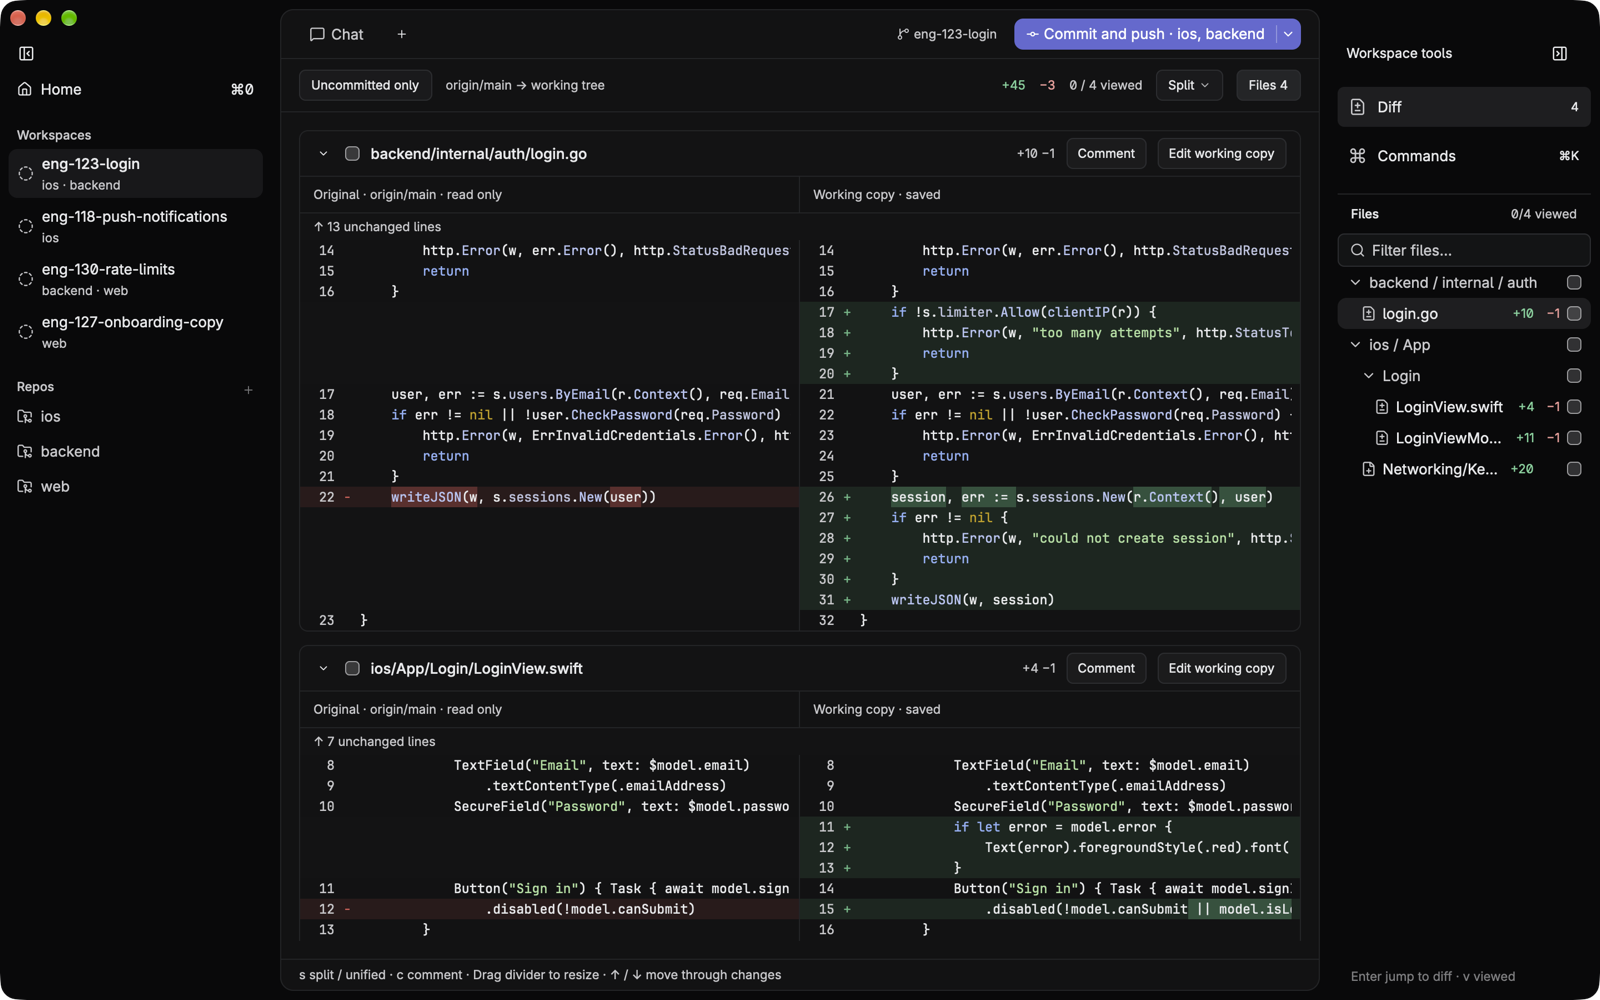
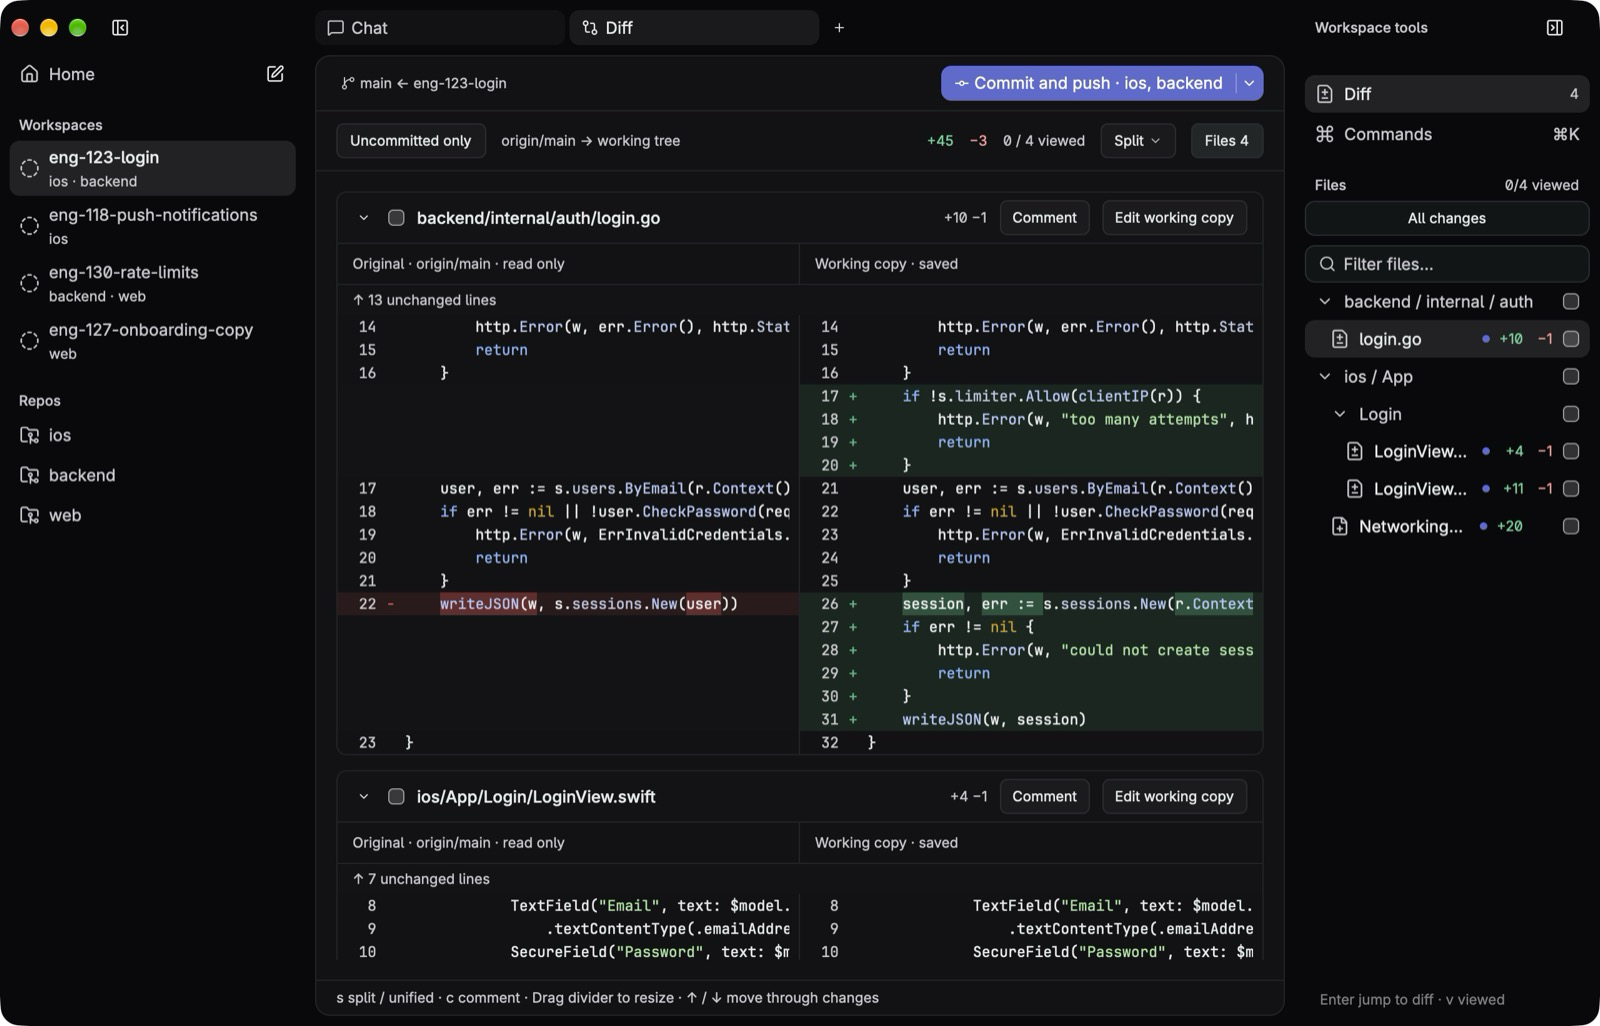
Refresh README screenshots for file tabs and stacked PRs

diff --git a/README.md b/README.md
@@ -19,6 +19,11 @@ The diff shows the original and the working copy side by side, across every repo
 
 <img src="docs/images/diff-images.png" width="800" alt="The split diff with a changed PNG shown before and after">
 
+## Full-width file tabs
+Open a file from Workspace tools or `cmd-p` to edit it across the central area. Chat and Diff stay one tab away, and Command-click keeps additional files open. A small dot in the file tree marks uncommitted changes; right-click a file and choose **Discard uncommitted changes…** to restore its last commit after confirmation. New files are deleted when discarded.
+
+<img src="docs/images/file-editor.png" width="800" alt="A full-width file editor beside Workspace tools, with Chat and Diff tabs and dots marking uncommitted files">
+
 ## Multi-repo workspaces
 One workspace = one feature = one git worktree per repo on a shared branch, e.g. `~/shark/workspaces/eng-123-login/{ios,backend}`. A single agent works across all of them. The diff is combined, PRs are cross-linked and merge in an order you set, and one git button shows the next step for every repo: commit, push, fix checks, address review, merge.
 
@@ -26,6 +31,8 @@ One workspace = one feature = one git worktree per repo on a shared branch, e.g.
 
 ## Stacked PRs
 A workspace can start from another branch or an open PR instead of `main`: its PR then targets that branch. For example, a backend change and an iOS feature in three PRs: logic, UI on top of logic, wiring on top of UI. The branch button in the header shows the base (`logic ← ui`) and the branch's place in its stack (`2/3`). Its menu lists the stack, so you can jump to the workspace or PR above or below, start a new workspace on top, insert one in between, or rebase onto the parent. Each repo of a workspace has its own stack, so the iOS repo can be stacked while the backend repo targets `main`. When a parent PR merges, the git button moves the PR onto the parent's base, and the agent rebases only the branch's own commits, also after a squash merge.
+
+<img src="docs/images/stack.png" width="800" alt="The branch menu showing a three-PR stack, its current workspace, and actions to rebase or insert a workspace">
 
 ## Install
 ```sh
@@ -98,7 +105,7 @@ Shark opens on Home (`cmd-0`) when no workspace is open. It shows what's missing
 - **Diff:** × or `cmd-w` closes the tab; unsaved inline edits use the discard confirmation. Closure is remembered per workspace across restarts. Diff in Workspace tools (expanded or collapsed), `cmd-shift-d`, and other explicit Diff actions reopen it. Tab cycling and number shortcuts count only visible tabs. One `git diff --merge-base <base>` per worktree (`git diff HEAD` with **Uncommitted only**, saved in `state.json`), with paths prefixed by repo name. Untracked files are included by marking them intent-to-add in a throwaway copy of the index (`GIT_INDEX_FILE`), so the real index and the agent's `index.lock` are never touched.
 - **Images and videos in the diff** (`src/app/media.rs`): a changed image or video gets a before/after row under its header, loaded only once the row is on screen and not while the file is folded. Both sides are named by the blob hash on the patch's `index` line (git hashes working-tree files too) and copied to `~/Library/Caches/shark/media/<hash>.<ext>` (old side via `git cat-file`), so nothing is decoded twice or goes stale; copies unused for two weeks are pruned at launch. The new side's copy is checked against its hash (`git hash-object --path`), so a file rewritten before its row loads isn't cached under the old one. PNG, JPEG, GIF (animated), WebP, BMP, ICO and SVG up to 1200 px are drawn as they are; bigger ones and HEIC, AVIF, TIFF and PSD are downscaled to 1200 px with `sips`, and big SVGs are drawn down with resvg. Empty files and Git LFS pointers say so instead of failing to decode. gpui keeps decoded images in memory and on the GPU until dropped, so the diff's image cache keeps the 32 most recently drawn. MP4, MOV and M4V get a poster frame (`qlmanage -t`, 5 s deadline, a failure is remembered) and play inline, muted, on click or `p`: AVFoundation decodes NV12 frames that go to gpui's `surface()` without a copy, the window redraws only on a new frame, one video plays at a time and it pauses when scrolled away. A video stored rotated (portrait phone video) plays through an `AVVideoComposition` that turns it upright; one that yields no frame within 5 s (audio only, an undecodable codec, a broken file) says it can't be played. WebM, MKV and AVI (which AVFoundation can't open) and images open in the default app on click.
 - **Right rail and Workspace tools:** a 72px rail on the right of every workspace tab holds Diff (a dot while files are unviewed; right-click for the changes menu) and Commands (`cmd-k`). `cmd-alt-b`, its top button, or **Files** in the diff bar expands it into Workspace tools: the same two rows, then the changed-files tree. The sidebar and Workspace tools are drag-resizable and keep their widths in `state.json`; Workspace tools starts collapsed at launch.
-- **Files tree and viewed:** the changed files show as a tree in Workspace tools, folders first, single-child folders joined (`src/ui`). Marking a file viewed stores a fingerprint of its patch in `state.json`; when the patch changes the file is unviewed again and gets a dot.
+- **Files tree and viewed:** the changed files show as a tree in Workspace tools, folders first, single-child folders joined (`src/ui`). A small accent dot marks every file with staged, unstaged or untracked changes, even when comparing against the base branch. Right-click a file → **Discard uncommitted changes…** restores its last committed version after confirmation, including staged and unsaved editor edits; new files are deleted. It waits for running agents and in-flight saves. Marking a file viewed stores a fingerprint of its patch in `state.json`; when the patch changes the file is unviewed again and gets an amber dot.
 - **Editor:** `o` opens a changed file at the full central width without changing the sidebar. Command-click a file in Workspace tools to keep multiple files open as tabs; reopening a path selects its existing tab. Chat tabs and shortcuts show Chat and focus its composer; agents keep running while files are displayed. Each file tab keeps its edits, and closing a dirty tab or leaving its workspace asks before discarding. Closing the last active file shows Diff if it is open, otherwise Chat. File tabs are not restored after restart. Saves are refused if the file changed on disk since it was read (the agent writes the same worktree); the file is re-read every 2 s and a clean buffer follows the disk. Vim mode is saved in `state.json`. "Open file…" (`cmd-p`) fuzzy-picks any tracked or untracked file of the workspace's repos (`git ls-files`), not only changed ones.
 - **Diff cursor and comments:** the diff keeps its scroll offset private and resets it on every refresh, so the cursor keys move a line cursor over shark's own model of the diff's rows and scroll by putting a row at the top; a refresh puts the same line back. Mouse scrolling drops the model until the next `home`/`end` (Vim: `gg`/`G`), `}`/`{` or tree jump. Split mode's divider resizes every file at once and is saved in `state.json`.
 - **Edit in place** (`i`, or **Edit working copy** in a file header): the working-copy column becomes editable a line at a time and every keystroke re-diffs. `cmd-s` saves and refuses to overwrite a file that changed on disk without asking; `esc` goes back to reviewing and asks before dropping unsaved edits. Deleted, binary, symlinked, very large and CRLF files can't be edited here (`o` opens the editor).
